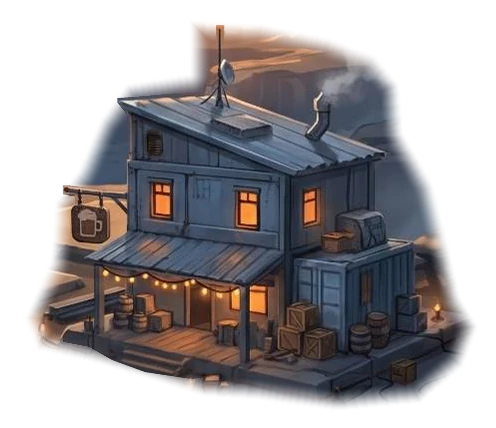
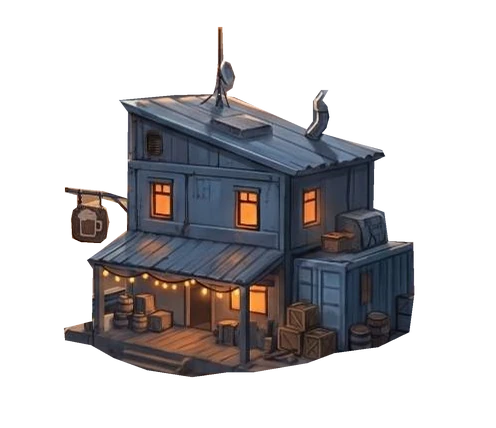
Add the mine behind the Tavern

Changed region(s): [[0.0605, 0.0607, 0.9677, 0.972]]

diff --git a/docs/app.js b/docs/app.js
@@ -1,4 +1,4 @@
-import { createBaseScreen } from './ui/base-screen.js?v=tavern-overlay-1';
+import { createBaseScreen } from './ui/base-screen.js?v=base-mine-1';
 import { deckEditor, deckHomeScreen, deckListScreen, factionPicker } from './ui/deck-builder.js?v=home-base-1';
 import { createDeckStorage } from './ui/deck-storage.js?v=home-base-1';
 import { bindCardPlacement } from './card-placement.js?v=opponent-reveal-1';
@@ -15,15 +15,15 @@ import { preview, showCard } from './ui/cards.js?v=flagship-art-2';
 import { createBattlefield } from './ui/field.js?v=flagship-art-2';
 import { mulliganScreen, updatePlacementSelection } from './ui/hand.js?v=flagship-art-2';
 import { createMatchMenu, describeBotAction, eventText } from './ui/menu.js?v=flagship-art-2';
-import { catalogScreen, finishedScreen, leaderScreen } from './ui/screens.js?v=tavern-overlay-1';
+import { catalogScreen, finishedScreen, leaderScreen } from './ui/screens.js?v=base-mine-1';
 import { createSettings } from './ui/settings.js?v=flagship-art-2';
 
 import { createFactionStats } from './ui/stats.js?v=step-11';
-import { createRewardProgress, REWARD_STORAGE_KEY } from './game/rewards.js?v=tavern-overlay-1';
-import { createRewardBook } from './ui/reward-book.js?v=tavern-overlay-1';
-import { createBoosterOpening, createBoosterShop, economyDialog } from './ui/booster-screens.js?v=tavern-overlay-1';
+import { createRewardProgress, REWARD_STORAGE_KEY } from './game/rewards.js?v=base-mine-1';
+import { createRewardBook } from './ui/reward-book.js?v=base-mine-1';
+import { createBoosterOpening, createBoosterShop, economyDialog } from './ui/booster-screens.js?v=base-mine-1';
 import { createResourceBar } from './ui/resources.js?v=interface-polish-1';
-import { resetProgress } from './game/reset-progress.js?v=tavern-overlay-1';
+import { resetProgress } from './game/reset-progress.js?v=base-mine-1';
 
 const app = document.querySelector('#app');
 const screen = document.querySelector('#screen');

diff --git a/tests/base.test.js b/tests/base.test.js
@@ -82,3 +82,38 @@ test('failed and unaffordable builds keep their materials, and material grants p
   assert.deepEqual(reopened.base(), before);
   assert.equal(reopened.inventory().gold, 365);
 });
+
+test('the Mine builds only on the right-middle plot and deducts its price', async () => {
+  const wallet = createRewardProgress();
+  for (const plot of BASE_PLOTS.filter((plot) => plot !== '2')) {
+    assert.equal(await wallet.build(plot, 'mine'), 'unknown');
+  }
+  assert.equal(await wallet.build('2', 'mine'), 'done');
+  assert.equal(wallet.inventory().gold, 600);
+  assert.deepEqual(wallet.base(), {
+    materials: { steel: 100, energyCells: 50, gateShards: 5 },
+    buildings: { 2: { kind: 'mine', level: 1 } },
+  });
+  assert.equal(await wallet.build('2', 'mine'), 'occupied');
+  assert.equal(await wallet.build('5', 'tavern'), 'unaffordable');
+});
+
+test('the Mine and the Tavern persist in back-to-front order regardless of construction order', async () => {
+  for (const order of [['mine', 'tavern'], ['tavern', 'mine']]) {
+    let save = null;
+    const storage = { getItem: () => save, setItem: (_key, value) => { save = value; } };
+    const wallet = createRewardProgress(storage);
+    await wallet.grantMaterials({ steel: 50 });
+    for (const kind of order) {
+      assert.equal(await wallet.build(kind === 'mine' ? '2' : '5', kind), 'done');
+    }
+
+    const reopened = createRewardProgress(storage);
+    const scene = reopened.base();
+    assert.deepEqual(scene.materials, { steel: 0, energyCells: 0, gateShards: 5 });
+    assert.equal(reopened.inventory().gold, 300);
+    assert.deepEqual(BASE_PLOTS.flatMap((id) => scene.buildings[id]?.kind ?? []), ['mine', 'tavern']);
+    assert.equal(scene.buildings['2'].level, 1);
+    assert.equal(scene.buildings['5'].level, 1);
+  }
+});

diff --git a/docs/ui/base-screen.js b/docs/ui/base-screen.js
@@ -1,5 +1,5 @@
-import { BASE_OVERLAYS, BASE_POSITIONS, baseLayout, overlayStyle } from './base-layout.js?v=tavern-overlay-1';
-import { BASE_PLOTS, BUILDING_BY_PLOT, BUILDINGS, MATERIALS, constructionShortages } from '../game/base.js?v=tavern-overlay-1';
+import { BASE_OVERLAYS, BASE_POSITIONS, baseLayout, overlayStyle } from './base-layout.js?v=base-mine-1';
+import { BASE_PLOTS, BUILDING_BY_PLOT, BUILDINGS, MATERIALS, constructionShortages } from '../game/base.js?v=base-mine-1';
 import { button, element } from './dom.js?v=opponent-reveal-1';
 import { dialogClose, sectionDialog } from './resources.js?v=interface-polish-1';
 import { resourceIcon } from './resource-icon.js?v=1';
@@ -171,10 +171,10 @@ export function createBaseScreen(progress) {
     if (building) {
       const definition = BUILDINGS[building.kind];
       title.textContent = definition.name;
-      const slots = definition.dailySlots[building.level - 1];
+      const slots = definition.dailySlots?.[building.level - 1];
       body.replaceChildren(element('strong', null, 'Уровень ' + building.level),
         element('p', null, definition.description),
-        element('p', null, 'Ежедневные задания — скоро' + (slots ? ' · Слотов: ' + slots : '')));
+        element('p', null, definition.effect ?? ('Ежедневные задания — скоро' + (slots ? ' · Слотов: ' + slots : ''))));
       return;
     }
     const kind = BUILDING_BY_PLOT[selected];

diff --git a/tests/base-layout.test.js b/tests/base-layout.test.js
@@ -22,15 +22,16 @@ for (const [viewportWidth, viewportHeight] of [
   });
 }
 
-test('the Tavern patch and hit mask use the same artwork coordinates at any scale', () => {
-  const { rect } = BASE_OVERLAYS[5];
-  const style = overlayStyle(rect);
-  for (const [viewportWidth, viewportHeight] of [[1920, 1080], [844, 390], [390, 844]]) {
-    const { width, height } = baseLayout(viewportWidth, viewportHeight);
-    const pixels = [style.left, style.top, style.width, style.height]
-      .map((percent, index) => parseFloat(percent) / 100 * (index % 2 ? height : width));
-    for (const [index, value] of pixels.entries()) {
-      assert.ok(Math.abs(value - rect[index] * width / 1536) < .001);
+for (const [plot, { rect }] of Object.entries(BASE_OVERLAYS)) {
+  test(`plot ${plot} art and hit mask use the same coordinates at any scale`, () => {
+    const style = overlayStyle(rect);
+    for (const [viewportWidth, viewportHeight] of [[1920, 1080], [844, 390], [390, 844]]) {
+      const { width, height } = baseLayout(viewportWidth, viewportHeight);
+      const pixels = [style.left, style.top, style.width, style.height]
+        .map((percent, index) => parseFloat(percent) / 100 * (index % 2 ? height : width));
+      for (const [index, value] of pixels.entries()) {
+        assert.ok(Math.abs(value - rect[index] * width / 1536) < .001);
+      }
     }
-  }
-});
+  });
+}

diff --git a/docs/game/base.js b/docs/game/base.js
@@ -1,5 +1,6 @@
+// Plot order is also the drawing order, from farthest to nearest.
 export const BASE_PLOTS = Object.freeze(['1', '2', '3', '4', '5', '6']);
-export const BUILDING_BY_PLOT = Object.freeze({ '5': 'tavern' });
+export const BUILDING_BY_PLOT = Object.freeze({ '2': 'mine', '5': 'tavern' });
 export const MATERIALS = Object.freeze({
   steel: 'Сталь',
   energyCells: 'Энергоячейки',
@@ -7,6 +8,12 @@ export const MATERIALS = Object.freeze({
 });
 export const STARTING_MATERIALS = Object.freeze({ steel: 200, energyCells: 100, gateShards: 5 });
 export const BUILDINGS = Object.freeze({
+  mine: Object.freeze({
+    name: 'Шахта',
+    description: 'Подъёмник доставляет руду из глубины ущелья.',
+    cost: Object.freeze({ gold: 400, steel: 100, energyCells: 50 }),
+    effect: 'Добыча Стали — скоро',
+  }),
   tavern: Object.freeze({
     name: 'Таверна',
     description: 'Место встречи командиров и наёмников. На первом уровне открывает один слот ежедневных заданий.',

diff --git a/docs/ui/screens.js b/docs/ui/screens.js
@@ -6,7 +6,7 @@ import { logView, roundText } from './menu.js?v=flagship-art-2';
 import { availabilityOptions, filterCatalog } from './catalog-cards.js?v=collection-2';
 import { factionFilters } from './faction-filters.js?v=1';
 import { copyLimit } from '../game/decks.js?v=flagship-art-2';
-import { craftPrice, dismantleValue } from '../game/rewards.js?v=tavern-overlay-1';
+import { craftPrice, dismantleValue } from '../game/rewards.js?v=base-mine-1';
 import { resourceIcon } from './resource-icon.js?v=1';
 import { sectionBack } from './resources.js?v=interface-polish-1';
 

diff --git a/docs/ui/base-layout.js b/docs/ui/base-layout.js
@@ -8,8 +8,13 @@ const artworkWidth = 1536;
 const artworkHeight = 858;
 // Overlay and silhouette share this rectangle in original artwork pixels.
 export const BASE_OVERLAYS = {
+  2: {
+    image: './art/base-mine-overlay.webp',
+    silhouette: './art/base-mine-silhouette.webp',
+    rect: [925, 105, 340, 413],
+  },
   5: {
-    image: './art/base-tavern-overlay.webp',
+    image: './art/base-tavern-overlay.webp?v=base-mine-1',
     silhouette: './art/base-tavern-silhouette.webp',
     rect: [936, 254, 496, 428],
   },

diff --git a/docs/ui/booster-screens.js b/docs/ui/booster-screens.js
@@ -1,6 +1,6 @@
 import { createCard } from '../game/board.js?v=flagship-art-2';
 import { FACTIONS, NEUTRAL_CARDS } from '../game/cards.js?v=flagship-art-2';
-import { BOOSTER_FACTIONS, BOOSTER_PRICE } from '../game/rewards.js?v=tavern-overlay-1';
+import { BOOSTER_FACTIONS, BOOSTER_PRICE } from '../game/rewards.js?v=base-mine-1';
 import { cardButton, showCard } from './cards.js?v=flagship-art-2';
 import { button, element } from './dom.js?v=opponent-reveal-1';
 import { resourceIcon } from './resource-icon.js?v=1';

diff --git a/docs/game/rewards.js b/docs/game/rewards.js
@@ -1,4 +1,4 @@
-import { BUILDING_BY_PLOT, BUILDINGS, constructionShortages, creditMaterials, readBase } from './base.js?v=tavern-overlay-1';
+import { BUILDING_BY_PLOT, BUILDINGS, constructionShortages, creditMaterials, readBase } from './base.js?v=base-mine-1';
 import { FACTIONS, NEUTRAL, NEUTRAL_CARDS } from './cards.js?v=flagship-art-2';
 import { copyLimit, PRESETS } from './decks.js?v=flagship-art-2';
 

diff --git a/docs/ui/reward-book.js b/docs/ui/reward-book.js
@@ -1,5 +1,5 @@
 import { button, element } from './dom.js?v=opponent-reveal-1';
-import { REWARD_SECTIONS, rewardState } from '../game/rewards.js?v=tavern-overlay-1';
+import { REWARD_SECTIONS, rewardState } from '../game/rewards.js?v=base-mine-1';
 import { resourceIcon } from './resource-icon.js?v=1';
 import { dialogClose, sectionDialog } from './resources.js?v=interface-polish-1';
 

diff --git a/docs/index.html b/docs/index.html
@@ -14,7 +14,7 @@
   <link rel="stylesheet" href="./reward-book.css?v=base-layout-2">
   <link rel="stylesheet" href="./economy.css?v=interface-polish-1">
   <link rel="stylesheet" href="./base.css?v=tavern-overlay-1">
-  <script type="module" src="./app.js?v=tavern-overlay-1"></script>
+  <script type="module" src="./app.js?v=base-mine-1"></script>
 </head>
 <body>
   <div id="app">

diff --git a/docs/game/reset-progress.js b/docs/game/reset-progress.js
@@ -1,4 +1,4 @@
-import { REWARD_STORAGE_KEY } from './rewards.js?v=tavern-overlay-1';
+import { REWARD_STORAGE_KEY } from './rewards.js?v=base-mine-1';
 
 export async function resetProgress(storage, locks) {
   function clearGameData() {
